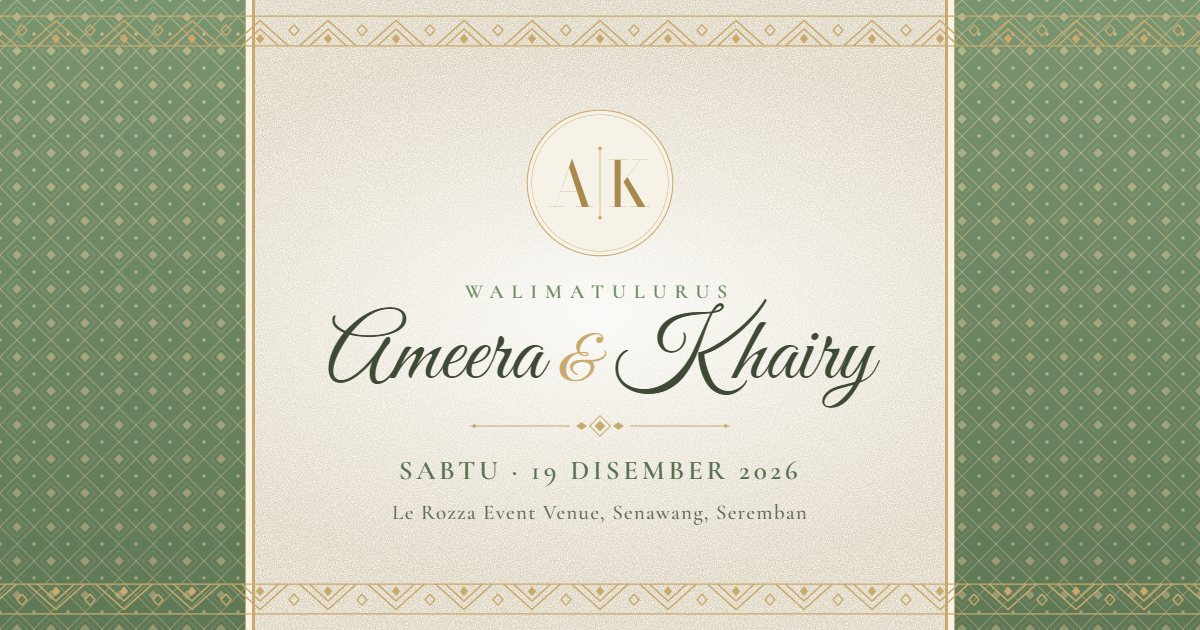
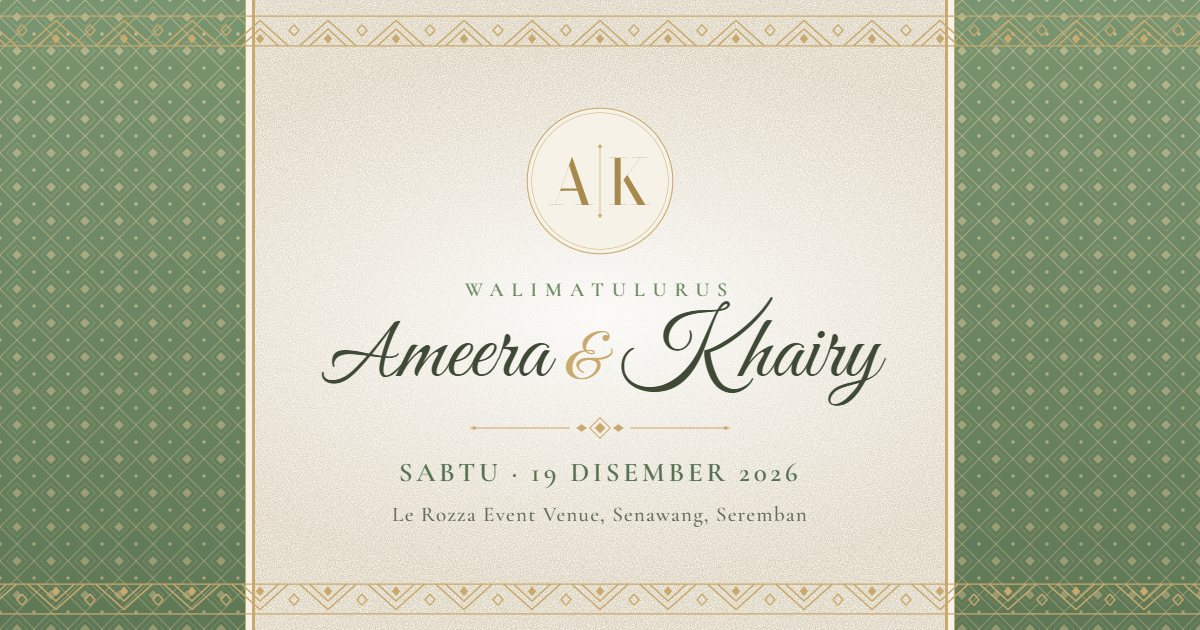
Bolder crossbar on monogram A; clear capital A in Ameera and Atur Cara

diff --git a/index.html b/index.html
@@ -18,8 +18,8 @@
   <meta property="og:url" content="https://ameeraomar335-blip.github.io/ameera-khairy/">
   <meta property="og:title" content="Walimatulurus Ameera &amp; Khairy">
   <meta property="og:description" content="Sabtu, 19 Disember 2026 · Le Rozza Event Venue, Senawang, Seremban. Sila sahkan kehadiran anda.">
-  <meta property="og:image" content="https://ameeraomar335-blip.github.io/ameera-khairy/assets/og-image.jpg?v=4">
-  <meta property="og:image:secure_url" content="https://ameeraomar335-blip.github.io/ameera-khairy/assets/og-image.jpg?v=4">
+  <meta property="og:image" content="https://ameeraomar335-blip.github.io/ameera-khairy/assets/og-image.jpg?v=5">
+  <meta property="og:image:secure_url" content="https://ameeraomar335-blip.github.io/ameera-khairy/assets/og-image.jpg?v=5">
   <meta property="og:image:type" content="image/jpeg">
   <meta property="og:image:width" content="1200">
   <meta property="og:image:height" content="630">
@@ -31,6 +31,7 @@
   <link rel="preload" as="image" href="assets/songket-lattice.svg">
   <link rel="preload" as="image" href="assets/monogram.svg">
   <link href="https://fonts.googleapis.com/css2?family=Amiri&family=Cormorant+Garamond:ital,wght@0,400;0,500;0,600;0,700;1,400&family=Great+Vibes&display=swap" rel="stylesheet">
+  <link href="https://fonts.googleapis.com/css2?family=Allura&amp;text=A&amp;display=swap" rel="stylesheet">
   <link rel="stylesheet" href="style.css">
 </head>
 <body class="is-locked">
@@ -68,7 +69,7 @@
         <img src="assets/monogram.svg" alt="Monogram A | K" width="200" height="200">
       </div>
       <p class="eyebrow reveal">Walimatulurus</p>
-      <h1 class="couple reveal">Ameera <span class="amp">&amp;</span> Khairy</h1>
+      <h1 class="couple reveal" aria-label="Ameera &amp; Khairy"><span class="cap-a">A</span>meera <span class="amp">&amp;</span> Khairy</h1>
       <img class="divider reveal" src="assets/divider.svg" alt="" width="240" height="24">
       <p class="hero-date reveal">Sabtu · 19 Disember 2026</p>
     </header>
@@ -111,7 +112,7 @@
       <p class="lead reveal">semua keluarga, saudara mara, sahabat handai &amp; yang mengenali bersama seisi keluarga ke majlis walimatulurus puteri kami yang dikasihi:</p>
 
       <div class="bride-groom reveal">
-        <p class="script-name">Ameera</p>
+        <p class="script-name" aria-label="Ameera"><span class="cap-a">A</span>meera</p>
         <p class="full-name">Ameera binti Omar</p>
         <p class="amp-script amp-script--lg">&amp;</p>
         <p class="script-name">Khairy</p>
@@ -154,7 +155,7 @@
 
     <!-- ============ 4. ATUR CARA ============ -->
     <section class="section schedule" aria-labelledby="t-aturcara">
-      <h2 id="t-aturcara" class="section-title reveal">Atur Cara</h2>
+      <h2 id="t-aturcara" class="section-title reveal" aria-label="Atur Cara"><span class="cap-a">A</span>tur Cara</h2>
       <img class="divider reveal" src="assets/divider.svg" alt="" width="240" height="24">
 
       <ol class="timeline">

diff --git a/style.css b/style.css
@@ -353,6 +353,9 @@ button { font: inherit; color: inherit; cursor: pointer; }
 }
 .couple .amp { color: var(--gold); font-size: .7em; }
 
+/* Great Vibes' capital A looks like a lowercase "a"; use Allura's clearer capital A */
+.cap-a { font-family: "Allura", var(--font-script); }
+
 .divider { width: 200px; height: auto; margin: 8px auto; }
 
 .hero-date {
